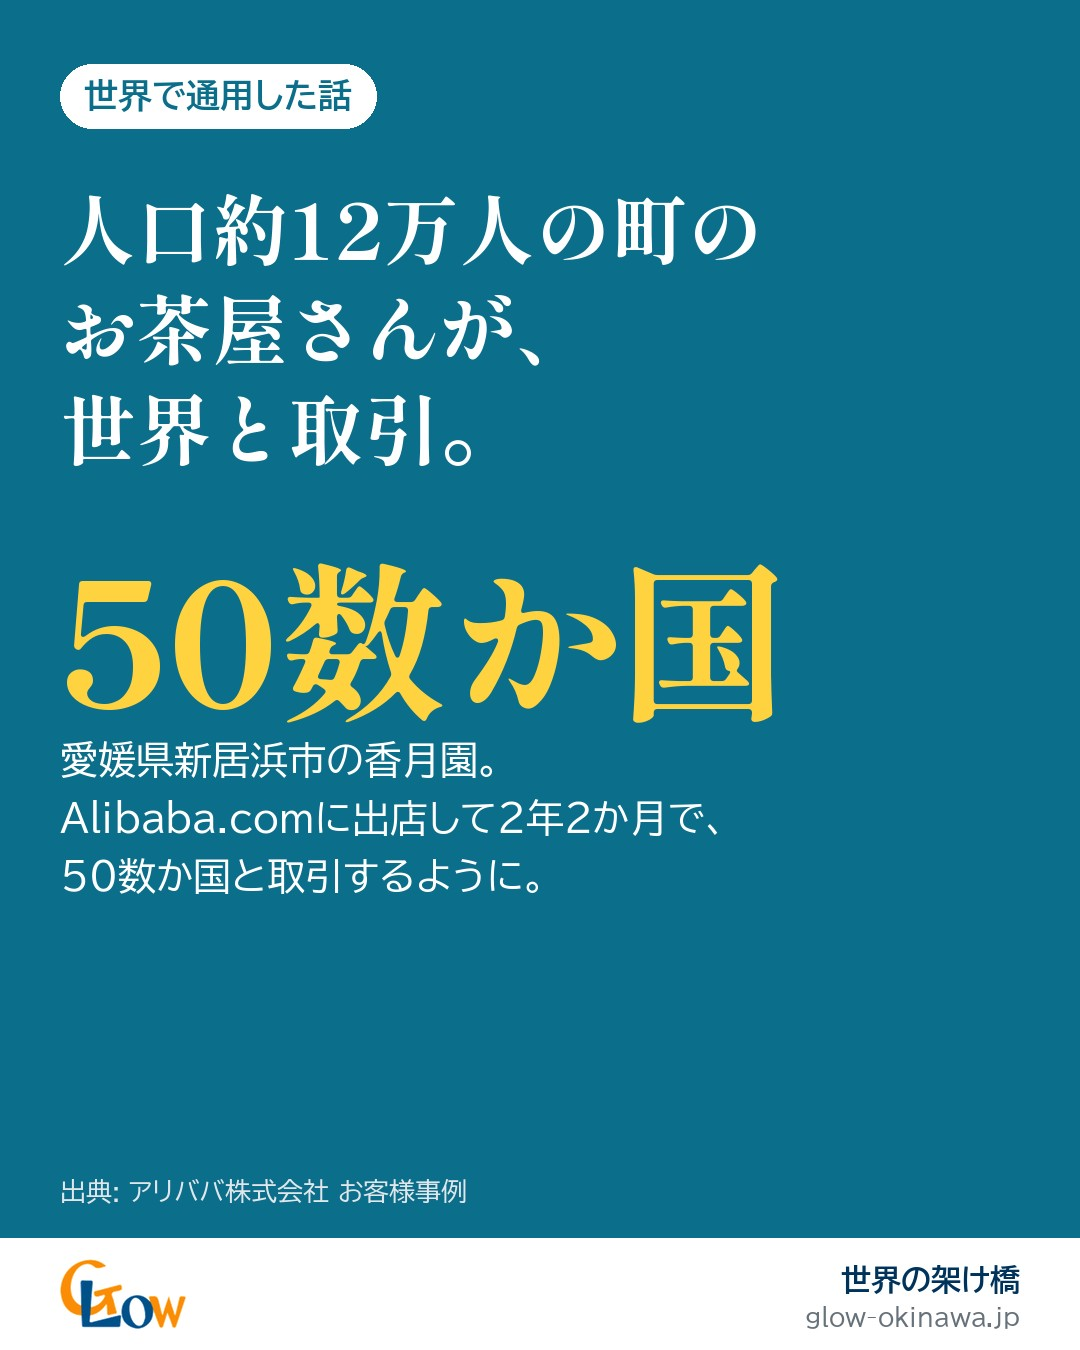
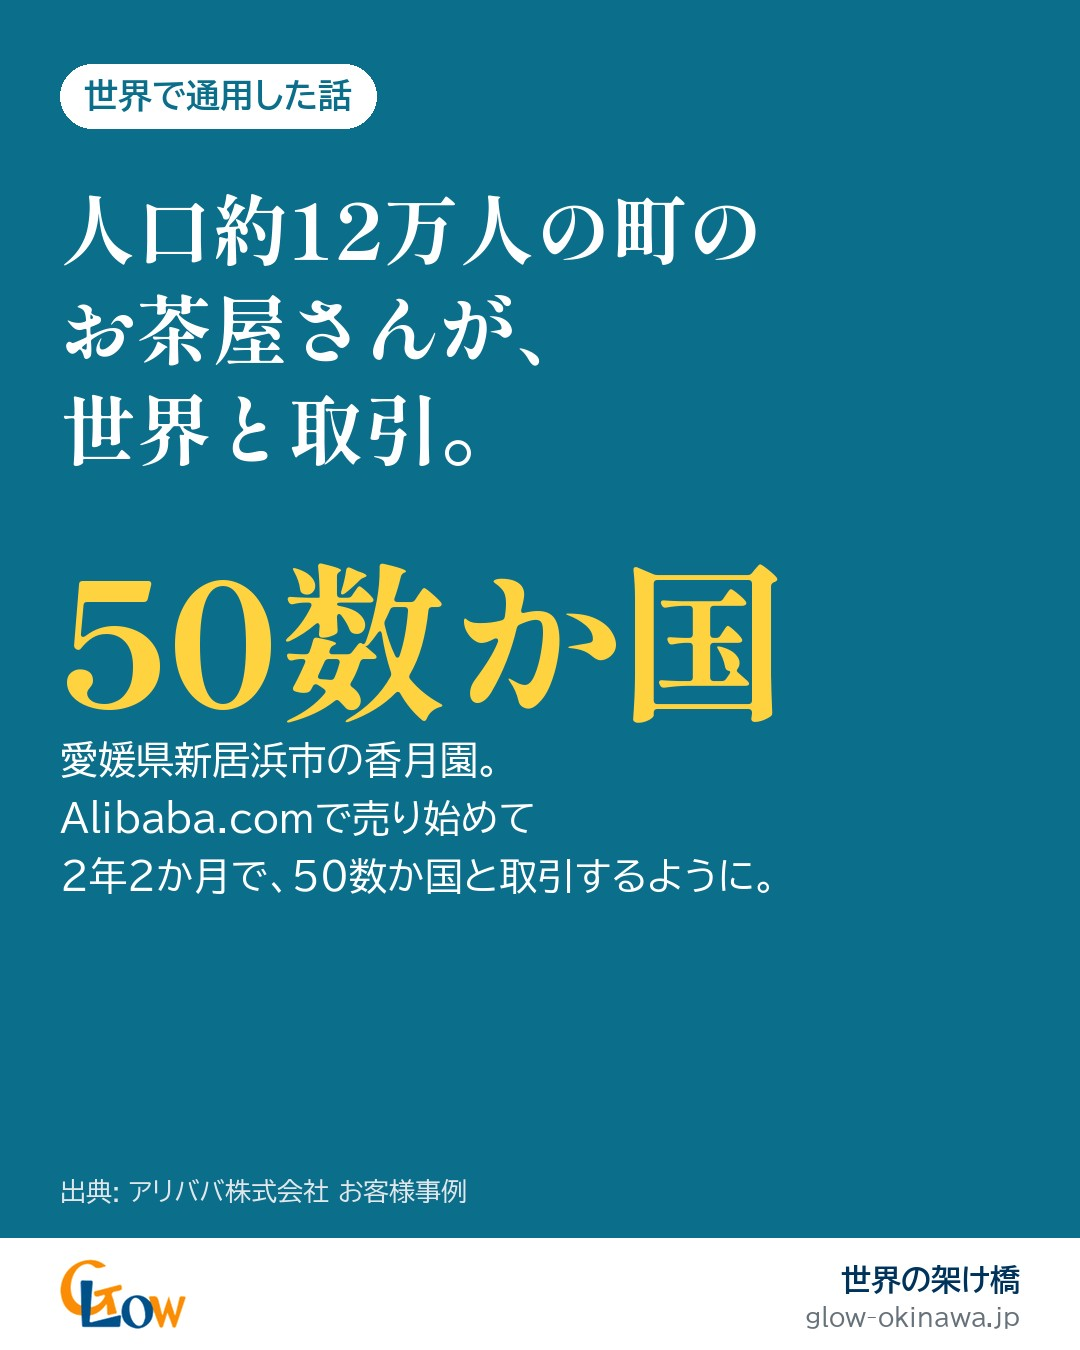
世界の架け橋SNS: 「出店」「並べる」を言いかえ(JCコネクト様のご要望に統一)
Claude-Session: https://claude.ai/code/session_016UFDXVuYFtAtTGYqmXNcP3

Changed region(s): [[0.1833, 0.5911, 0.6722, 0.6844], [0.0611, 0.6222, 0.1528, 0.6844]]

diff --git a/scripts/glow_sns_build.py b/scripts/glow_sns_build.py
@@ -68,7 +68,7 @@ POSTS = [
      "cap": "はじめまして。株式会社GLOWの「世界の架け橋」です。\n\n沖縄の黒糖、泡盛、もずく、琉球ガラス。沖縄には、世界でまだ知られていない宝がたくさんあります。\n\n私たちは、世界最大級の企業どうしの取引サイト「Alibaba.com」の上に沖縄の売り場を持ち、生産者のみなさんの商品を世界の買い手へ届けるお手伝いをしています。\n\nこのアカウントでは\n・海外販路クイズ\n・英語で言うと?(沖縄の産品の英語での伝え方)\n・やりがちNG→OK\n・海外販路ことば辞典\nなどを、月・水・金にお届けします。"},
     {"id": "qz-buyers", "kind": "quiz", "q": "Alibaba.comで\n仕入れ先を探している\n世界の買い手は\nどれくらい?",
      "opts": ["50万", "500万", "5,000万以上"],
-     "cap": "海外販路クイズ\n\nQ. Alibaba.comで仕入れ先を探している世界の買い手は、どれくらい?\nA. 50万 / B. 500万 / C. 5,000万以上\n\n.\n.\n.\n正解は C. 5,000万以上 です。\n\n世界中の会社やお店が、ここで「次に仕入れる商品」を探しています。沖縄の商品も、その目にとまる場所に並べられます。\n\n出典: Alibaba.com 公式(About Alibaba.com)"},
+     "cap": "海外販路クイズ\n\nQ. Alibaba.comで仕入れ先を探している世界の買い手は、どれくらい?\nA. 50万 / B. 500万 / C. 5,000万以上\n\n.\n.\n.\n正解は C. 5,000万以上 です。\n\n世界中の会社やお店が、ここで「次に仕入れる商品」を探しています。沖縄の商品も、その目にとまる場所で販売できます。\n\n出典: Alibaba.com 公式(About Alibaba.com)"},
     {"id": "en-andagi", "kind": "word", "img": "andagi", "ja": "サーターアンダギー", "en": "Sata Andagi",
      "line": "Okinawan fried dough balls,\ncrispy outside and soft inside.",
      "cap": "英語で言うと?\n\nサーターアンダギー → Sata Andagi\n\n名前はそのままでも大丈夫。大事なのは、どんな物かを英語で一文そえることです。\n\n例: Okinawan fried dough balls, crispy outside and soft inside.\n(外はカリッと、中はふんわりした沖縄の揚げ菓子)\n\n世界の買い手は、写真と英語の一文で「どんな味か」を想像します。\n\n" + AI_NOTE},
@@ -85,9 +85,9 @@ POSTS = [
      "cap": "海外販路ことば辞典\n\nMOQ(エム・オー・キュー)= 最低注文数\nMinimum Order Quantity の略です。\n\n「1回の注文で、何個から受けますか?」という意味。会社やお店が仕入れ先を探す取引では、最初に聞かれることが多い言葉です。\n\n面談では、無理のないMOQをいっしょに決めます。\n\n" + SAVE},
     {"id": "story-kagetsuen", "kind": "story", "color": "sea", "tag": "世界で通用した話",
      "big": "50数か国", "head": "人口約12万人の町の\nお茶屋さんが、\n世界と取引。",
-     "body": "愛媛県新居浜市の香月園。\nAlibaba.comに出店して2年2か月で、\n50数か国と取引するように。",
+     "body": "愛媛県新居浜市の香月園。\nAlibaba.comで売り始めて\n2年2か月で、50数か国と取引するように。",
      "src": "出典: アリババ株式会社 お客様事例",
-     "cap": "世界で通用した話\n\n愛媛県新居浜市(人口約12万人)のお茶屋さん・香月園は、Alibaba.comに出店してから2年2か月で、50数か国と取引するようになりました。\n\n地方の会社でも、世界と取引できる時代です。\n\n出典: アリババ株式会社 お客様事例"},
+     "cap": "世界で通用した話\n\n愛媛県新居浜市(人口約12万人)のお茶屋さん・香月園は、Alibaba.comで売り始めてから2年2か月で、50数か国と取引するようになりました。\n\n地方の会社でも、世界と取引できる時代です。\n\n出典: アリババ株式会社 お客様事例"},
     {"id": "en-umibudo", "kind": "word", "img": "umibudo", "ja": "海ぶどう", "en": "Sea Grapes",
      "line": "A seaweed with tiny beads\nthat pop in your mouth.",
      "cap": "英語で言うと?\n\n海ぶどう → Sea Grapes\n\n例: A seaweed with tiny beads that pop in your mouth.\n(口の中でプチプチはじける、小さな粒の海藻)\n\n食感を英語で伝えると、食べたことのない人にも魅力が伝わります。\n\n" + AI_NOTE},

diff --git a/posts/glow/story-kagetsuen.md b/posts/glow/story-kagetsuen.md
@@ -3,7 +3,7 @@
 ## キャプション
 世界で通用した話
 
-愛媛県新居浜市(人口約12万人)のお茶屋さん・香月園は、Alibaba.comに出店してから2年2か月で、50数か国と取引するようになりました。
+愛媛県新居浜市(人口約12万人)のお茶屋さん・香月園は、Alibaba.comで売り始めてから2年2か月で、50数か国と取引するようになりました。
 
 地方の会社でも、世界と取引できる時代です。
 
@@ -18,5 +18,5 @@ https://allgroup-inc.github.io/hojo-hq/go/glow-fb/
 
 ## 出荷ゲート
 - gates: accuracy-check, deadline-alert, humanizer
-- checked: 2026-11-17
+- checked: 2026-11-20
 - by: Claude(glow_sns_build・提案資料の照合済み数字のみ使用)

diff --git a/posts/glow/qz-buyers.md b/posts/glow/qz-buyers.md
@@ -11,7 +11,7 @@ A. 50万 / B. 500万 / C. 5,000万以上
 .
 正解は C. 5,000万以上 です。
 
-世界中の会社やお店が、ここで「次に仕入れる商品」を探しています。沖縄の商品も、その目にとまる場所に並べられます。
+世界中の会社やお店が、ここで「次に仕入れる商品」を探しています。沖縄の商品も、その目にとまる場所で販売できます。
 
 出典: Alibaba.com 公式(About Alibaba.com)
 
@@ -24,5 +24,5 @@ https://allgroup-inc.github.io/hojo-hq/go/glow-fb/
 
 ## 出荷ゲート
 - gates: accuracy-check, deadline-alert, humanizer
-- checked: 2026-11-04
+- checked: 2026-11-20
 - by: Claude(glow_sns_build・提案資料の照合済み数字のみ使用)

diff --git a/posts/glow/cmp-expo.md b/posts/glow/cmp-expo.md
@@ -19,5 +19,5 @@ https://allgroup-inc.github.io/hojo-hq/go/glow-fb/
 
 ## 出荷ゲート
 - gates: accuracy-check, deadline-alert, humanizer
-- checked: 2026-11-17
+- checked: 2026-11-20
 - by: Claude(glow_sns_build・提案資料の照合済み数字のみ使用)
